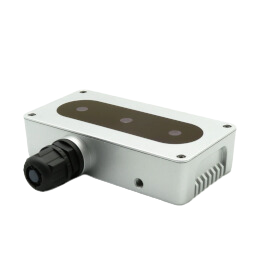
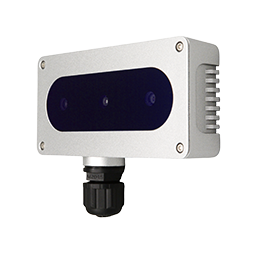
Updated thumbnail photos

diff --git a/docs/source/index.rst b/docs/source/index.rst
@@ -104,9 +104,9 @@ in `standalone mode <https://docs.luxonis.com/projects/api/en/latest/tutorials/s
      - OAK-D Pro PoE
    * - .. image:: /_static/images/thumbnails/oak-d-poe_th.png
           :target: pages/SJ2088POE.html
-     - .. image:: /_static/images/thumbnails/s2-poe.png
+     - .. image:: /_static/images/thumbnails/oak-d-s2-poe.png
           :target: pages/NG9097s2.html
-     - .. image:: /_static/images/thumbnails/pro-poe.png
+     - .. image:: /_static/images/thumbnails/oak-d-pro-poe.png
           :target: pages/NG9097pro.html
    * - :ref:`Learn more <sj2088poe>`
      - :ref:`Learn more <ng9097s2>`
